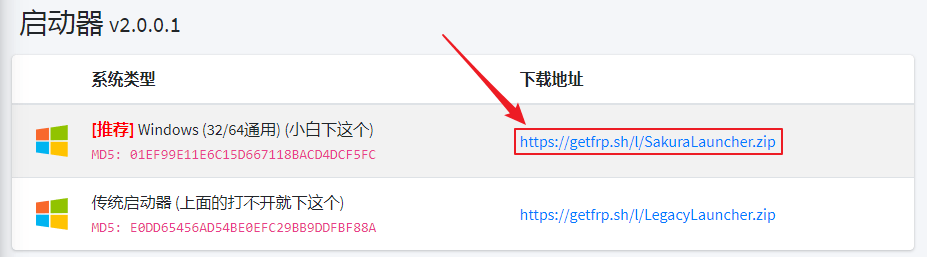
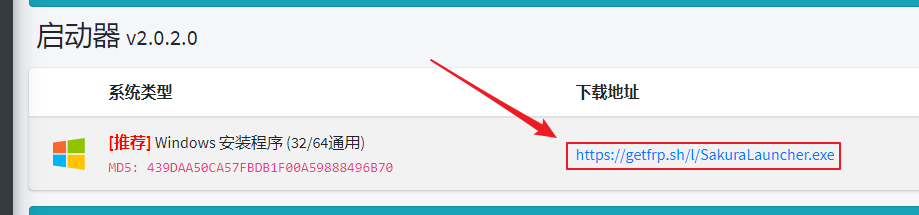
launcher/usage: update & cleanup

diff --git a/launcher/usage.md b/launcher/usage.md
@@ -1,37 +1,42 @@
-# 启动器基本使用教程
+# 启动器使用教程
 
-?> 传统启动器和新版 (WPF) 启动器使用方法基本一致，此处仅提供新版启动器的教程
+## 安装启动器
 
-## 下载软件
-
-?> 启动器需要安装 `.NET Framework 4.5` 或以上版本才能正常运行    
-Windows 10 已内置此框架，不需要单独下载，旧版本系统 (Windows 7) [请点击前往微软官方下载页面下载](https://dotnet.microsoft.com/download/dotnet-framework/net45)
-
-登录管理面板，在侧边栏点击 “软件下载” :
+登录管理面板，在侧边栏点击 **软件下载**:
 
 ![](../_images/download.png)
 
-然后点击对应版本的下载地址来下载启动器，建议下载上面的 **推荐** 版本，如果打不开再换下面的传统启动器
+!> 我们不提供自定义安装路径的选项，如有此类需求请自行编译启动器  
+默认安装路径为 `C:\Program Files\SakuraFrpLauncher`
+
+点击启动器右侧的下载地址来下载启动器安装程序:
 
 ![](_images/usage-0.png)
 
-下载完毕后 **不要直接运行** ，解压到一个单独的文件夹，比如我这里解压到 `R:\`
+下载完毕后双击安装程序并根据向导提示进行安装:
+
+?> 正常情况下，安装程序会自动下载系统中缺失的运行库  
+如果下载失败，请到 [这里](https://dotnet.microsoft.com/download/dotnet-framework/net48 ':target=_blank') 下载 `.NET Framework 4.8 Runtime`  
+并到 [这里](https://support.microsoft.com/zh-cn/help/2977003/the-latest-supported-visual-c-downloads ':target=_blank') 下载 `Visual Studio C++ 2015、2017 和 2019 (x86)`  
+手动安装这两个运行库，随后重新运行启动器安装程序即可
 
 ![](_images/usage-1.png)
 
-### 登录启动器
+## 登录启动器
 
-找到刚才解压出的文件，双击 (或者 右键单击->点打开 或者 选中后按回车键) `SakuraLauncher.exe` 运行启动器
+?> 传统启动器和新版 (WPF) 启动器使用方法基本一致，此处仅提供新版启动器的教程
 
-?> 如果您使用的是传统启动器，请打开 `LegacyLauncher.exe`
+安装完毕后双击桌面图标 (如果您选择了 `创建桌面快捷方式`) 来运行启动器。
 
+?> 如果您没有勾选 `创建桌面快捷方式`，请打开 `C:\Program Files\SakuraFrpLauncher` 文件夹  
+然后运行 `SakuraLauncher.exe`  (如果安装的是传统启动器，请运行 `LegacyLauncher.exe`)  
 ![](_images/usage-2.png)
 
-进入 [用户信息](https://www.natfrp.com/user/profile) 页面，复制访问密钥 (也叫做 Token) 到启动器点击登录
+进入 [用户信息](https://www.natfrp.com/user/profile ':target=_blank') 页面，复制 **访问密钥** 到启动器，点击登录
 
 ![](_images/usage-3.png)
 
-### 创建隧道
+## 创建隧道
 
 登录成功后会自动切换到 **隧道** 标签，点击加号新建隧道
 
@@ -45,7 +50,7 @@ Windows 10 已内置此框架，不需要单独下载，旧版本系统 (Windows
 
 ![](_images/usage-6.png)
 
-### 启用隧道
+## 启用隧道
 
 !> 不要频繁开关隧道，启用隧道后稍等一会才能连接成功  
 如果长时间 (超过一分钟) 没看到连接成功的提示框请检查日志
@@ -66,7 +71,7 @@ Windows 10 已内置此框架，不需要单独下载，旧版本系统 (Windows
 
 ![](_images/usage-10.png)
 
-### 删除隧道
+## 删除隧道
 
 将鼠标放到隧道卡片上悬停一会，卡片右上角会出现删除按钮
 
@@ -80,6 +85,6 @@ Windows 10 已内置此框架，不需要单独下载，旧版本系统 (Windows
 
 `2.0.0.0` 及以上版本的启动器提供两种开机启动方式，一般情况下直接勾选下图中的选项就能满足使用需求
 
-如需不进桌面自启（如穿透远程桌面服务），请参阅 [系统服务](/launcher/service) 页面了解服务启动方式
+如需不进桌面自启 (如穿透远程桌面服务)，请参阅 [系统服务](/launcher/service) 页面了解服务启动方式
 
 ![](_images/usage-13.png)
